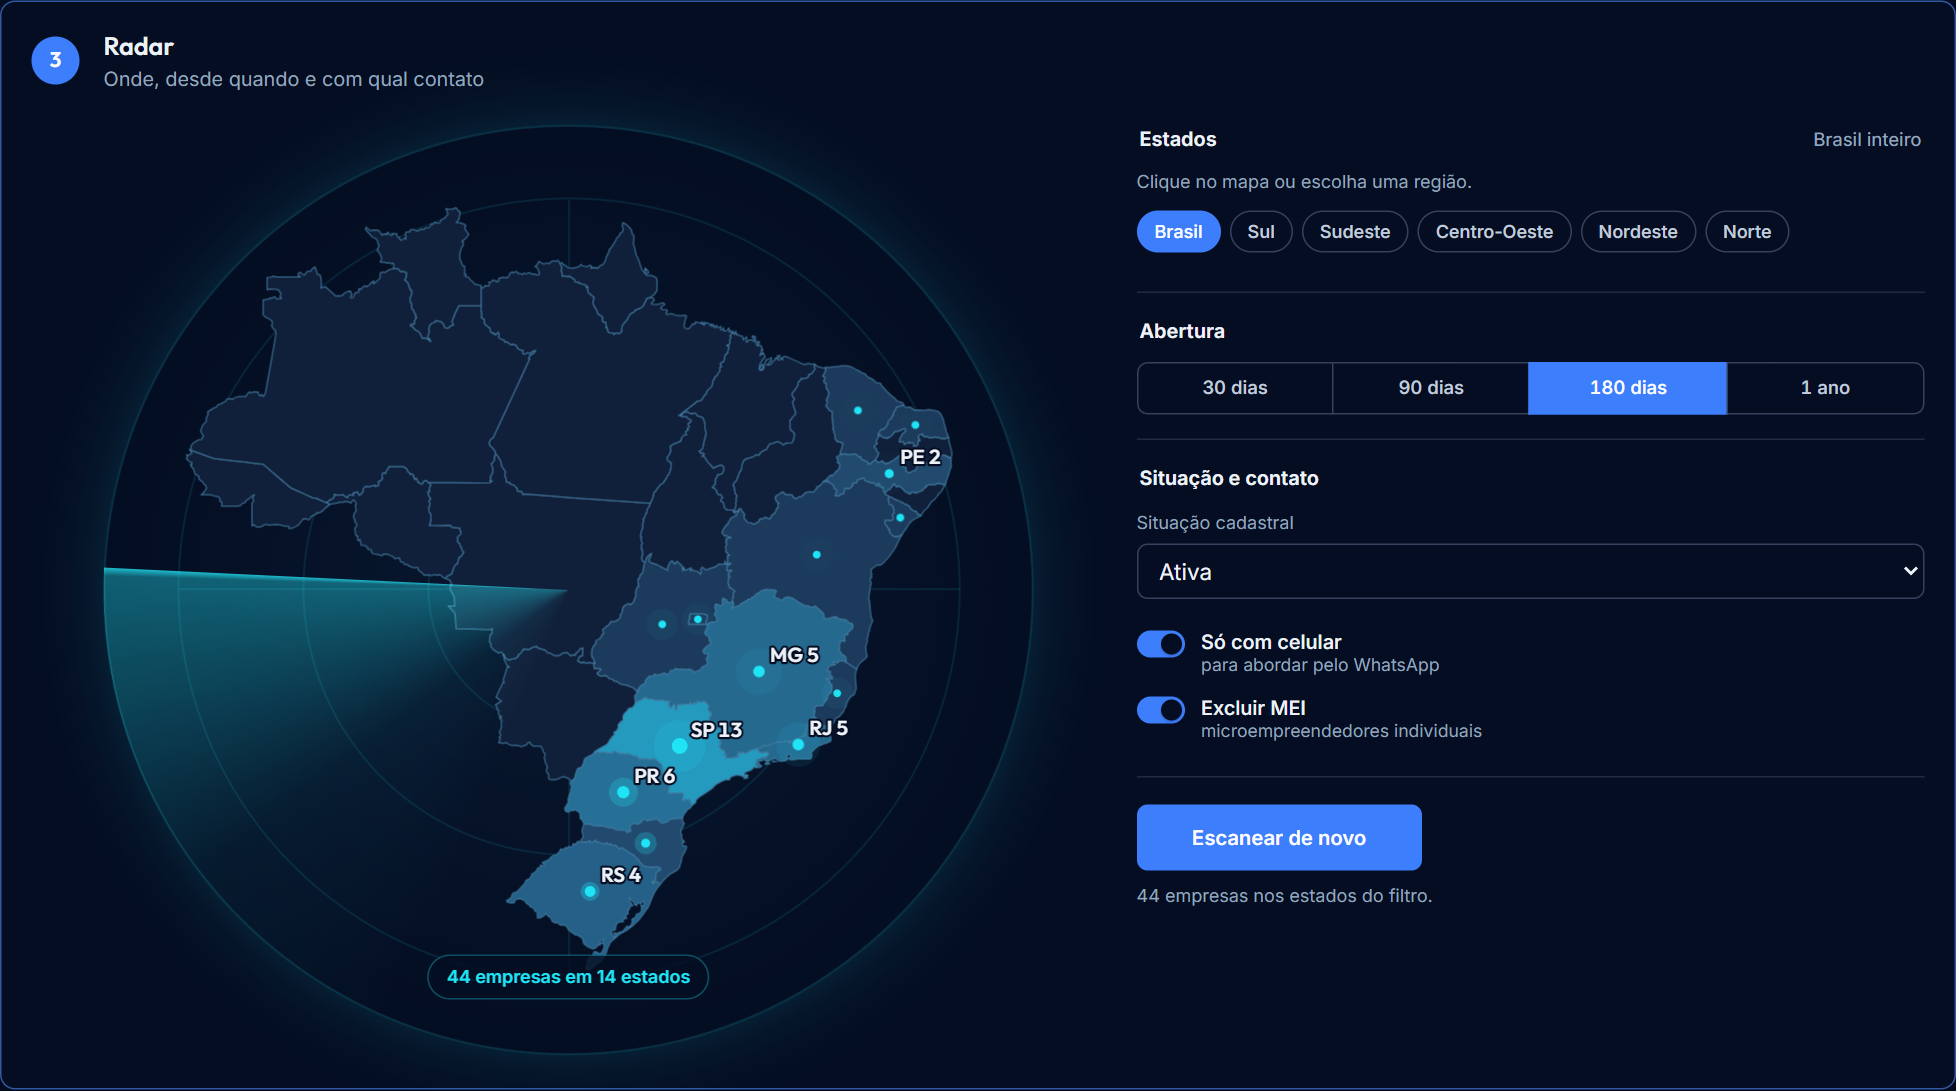
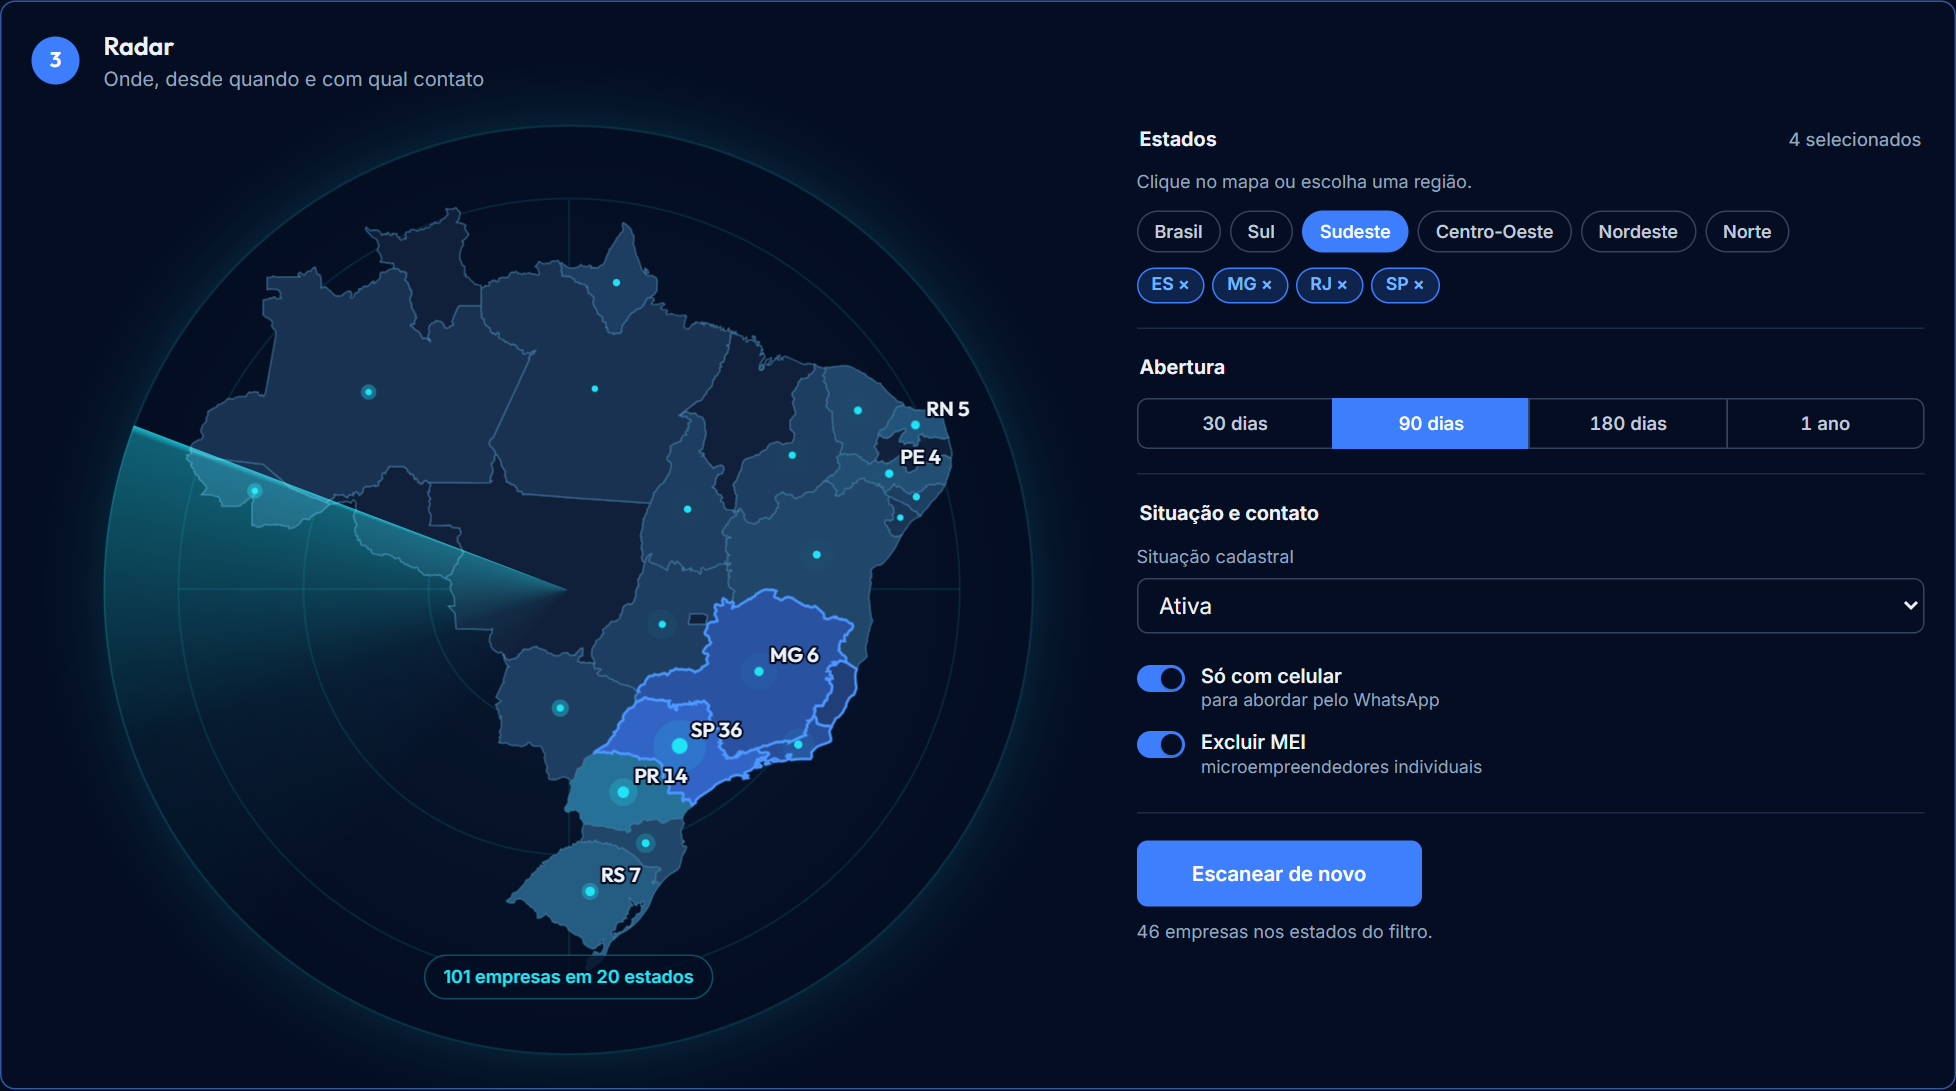
docs: README com o fluxo passo a passo, GIF do radar e telas
Titulo do resumo cai para "N atividades" quando os nomes oficiais nao cabem numa frase legivel.

diff --git a/web/src/App.tsx b/web/src/App.tsx
@@ -361,7 +361,12 @@ export default function App() {
     if (!catalogo || cnaes.length === 0) return ''
     if (cnaes.length === 1) return nomeCurto(catalogo.porCodigo.get(cnaes[0])?.descricao ?? cnaes[0])
     if (d && cnaes.length === d.total && cnaes.every((c) => c.startsWith(d.codigo))) return nomeCurto(d.descricao)
-    if (cnaes.length <= 3) return listaPorExtenso(cnaes.map((c) => nomeCurto(catalogo.porCodigo.get(c)?.descricao ?? c)))
+    if (cnaes.length <= 3) {
+      // Nomes oficiais longos viram uma frase ilegivel no titulo; a lista
+      // completa ja esta na etapa 2.
+      const frase = listaPorExtenso(cnaes.map((c) => nomeCurto(catalogo.porCodigo.get(c)?.descricao ?? c)))
+      if (frase.length <= 48 && !frase.includes('…')) return frase
+    }
     return `${cnaes.length} atividades`
   })()
 

diff --git a/README.md b/README.md
@@ -12,7 +12,14 @@
 </p>
 
 <p align="center">
-  <img src="docs/imagens/radar.png" alt="Radar da Fonteca: mapa do Brasil com os estados acesos pela quantidade de empresas encontradas" width="820" />
+  <a href="LICENSE"><img src="https://img.shields.io/badge/licen%C3%A7a-MIT-3b82f6" alt="Licença MIT" /></a>
+  <a href="https://github.com/magoautomacoes/fonteca/actions/workflows/ci.yml"><img src="https://github.com/magoautomacoes/fonteca/actions/workflows/ci.yml/badge.svg" alt="CI" /></a>
+  <img src="https://img.shields.io/badge/auto--hospedado-Docker-22d3ee" alt="Auto-hospedado com Docker" />
+  <img src="https://img.shields.io/badge/dados-Receita%20Federal-0b1b3a" alt="Dados da Receita Federal" />
+</p>
+
+<p align="center">
+  <img src="docs/imagens/radar.gif" alt="O radar da Fonteca varrendo o mapa do Brasil e acendendo os estados com empresas recém-abertas" width="860" />
 </p>
 
 ---
@@ -26,23 +33,74 @@ A Fonteca faz esse trabalho na sua máquina ou na sua VM: baixa os arquivos,
 organiza num Postgres e entrega uma tela e uma API para você achar quem acabou
 de abrir no seu ramo, com celular para chamar no WhatsApp.
 
+Nada sai da sua máquina: não há conta, cadastro nem servidor de terceiros.
+
+## Como funciona
+
+### 1. Escolha o ramo
+
+Busque entre as 1.332 atividades oficiais da CNAE (IBGE), pelo nome ou por
+termos populares: "padaria", "oficina", "salão de beleza". Ou comece por um
+dos ramos mais procurados.
+
+<p align="center">
+  <img src="docs/imagens/busca.png" alt="Busca por ramo: digitando padaria, a Fonteca sugere as atividades de padaria e confeitaria da CNAE" width="820" />
+</p>
+
+### 2. Ajuste as atividades
+
+O ramo abre em árvore, grupo por grupo, com tudo marcado. Desmarque o que não
+interessa; o código CNAE de cada atividade fica à vista.
+
+<p align="center">
+  <img src="docs/imagens/atividades.png" alt="Árvore de atividades do ramo de alimentação, com restaurantes, lanchonetes, bares e bufês marcados" width="820" />
+</p>
+
+### 3. Ligue o radar
+
+O mapa mostra onde estão as empresas do filtro, estado por estado. Clique no
+mapa ou numa região para filtrar, e escolha desde quando (30, 90, 180 dias ou
+um ano), a situação cadastral, só com celular e sem MEI.
+
+<p align="center">
+  <img src="docs/imagens/radar.png" alt="Radar com o Sudeste selecionado: SP, MG, RJ e ES acesos, e a contagem de empresas por estado" width="820" />
+</p>
+
+### 4. Aborde e exporte
+
+A lista vem com o que importa para a primeira conversa: nome, CNPJ, atividade,
+cidade e há quanto tempo a empresa abriu. O botão de WhatsApp já monta o número
+(a Receita guarda o celular sem o nono dígito; a Fonteca restaura), e a
+exportação gera uma planilha que o Excel em português abre direto.
+
+<p align="center">
+  <img src="docs/imagens/lista.png" alt="Lista de restaurantes e lanchonetes abertos em São Paulo, com WhatsApp, e-mail, atividade, data de abertura e cidade" width="820" />
+</p>
+
+### Tema claro e celular
+
+<table>
+  <tr>
+    <td width="62%"><img src="docs/imagens/radar-claro.png" alt="Radar no tema claro" /></td>
+    <td width="19%"><img src="docs/imagens/celular-radar.png" alt="Radar no celular" /></td>
+    <td width="19%"><img src="docs/imagens/celular-lista.png" alt="Lista de empresas no celular" /></td>
+  </tr>
+</table>
+
+As imagens usam o **modo demonstração**, com empresas e contatos fictícios, que
+já vem na instalação para você conhecer a ferramenta antes de baixar os dados.
+
 ## O que ela faz
 
-- **Busca por ramo.** As 1.332 atividades oficiais da CNAE (IBGE), com busca por
-  texto e por termos populares: "padaria", "oficina", "salão de beleza".
-- **Radar por estado.** O mapa do Brasil mostra onde estão as empresas do
-  filtro; clique no estado para filtrar.
-- **Filtros de prospecção.** Abertas nos últimos 30, 90, 180 ou 365 dias,
-  situação cadastral, só com celular, sem MEI.
-- **Pronto para agir.** Botão de WhatsApp com o número já montado (a Receita
-  guarda o celular sem o nono dígito; a Fonteca restaura), e exportação para
-  planilha que o Excel em português abre direto.
+- **Busca por ramo** nas 1.332 atividades oficiais da CNAE, por texto ou código.
+- **Radar por estado**, com a contagem exata de empresas em cada UF.
+- **Filtros de prospecção**: período de abertura, situação cadastral, só com
+  celular, sem MEI.
+- **Pronto para agir**: WhatsApp com o número montado e planilha para o Excel.
 - **API REST** com chave, limite de uso e isolamento entre contas, para ligar
   no seu CRM ou automação.
-- **Modo demonstração**, com empresas fictícias, para conhecer a ferramenta
-  antes de baixar os dados.
-
-Nada sai da sua máquina: não há conta, cadastro nem servidor de terceiros.
+- **Atualização mensal** automática com um cron, sem derrubar a consulta
+  durante a carga.
 
 ## Instalar
 
@@ -74,6 +132,20 @@ docker compose run --rm cli ingest
 
 O passo a passo completo, incluindo VM com HTTPS, requisitos de máquina e
 atualização mensal, está em **[docs/instalacao.md](docs/instalacao.md)**.
+
+## API
+
+```bash
+curl -s http://localhost:8080/v1/cnpj/pesquisa \
+  -H 'api-key: fnt_live_...' \
+  -H 'content-type: application/json' \
+  -d '{"codigo_atividade_principal": ["5611201"], "uf": ["SP"],
+       "data_abertura": {"ultimos_dias": 90},
+       "mais_filtros": {"somente_celular": true}}'
+```
+
+Pesquisa paginada, contagem por estado, detalhe de CNPJ e consumo da conta.
+Veja **[docs/api.md](docs/api.md)**.
 
 ## Documentação
 
